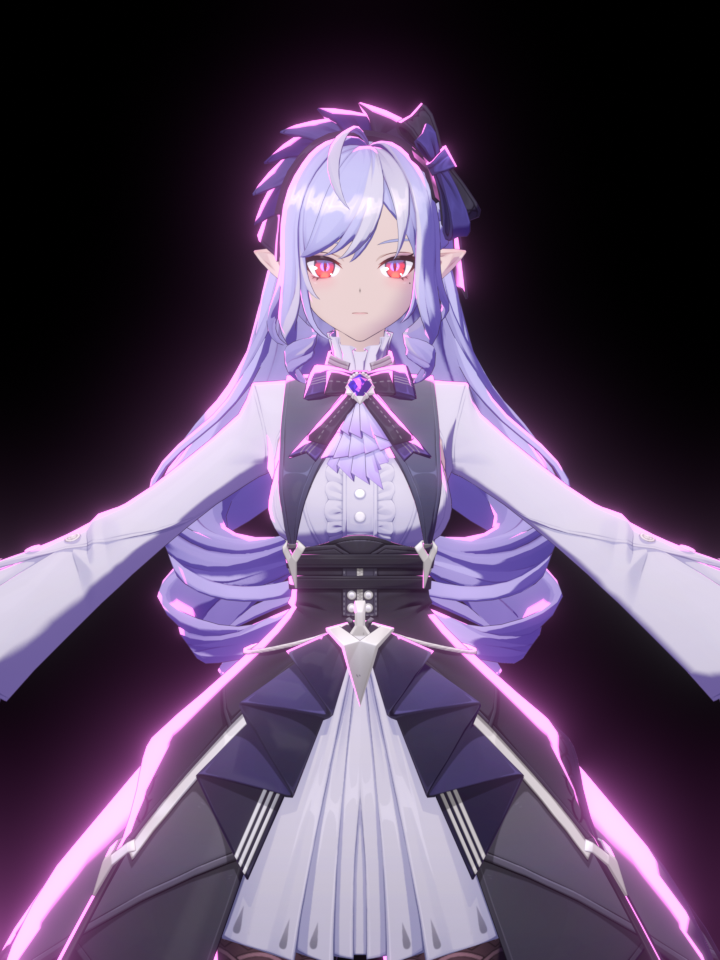
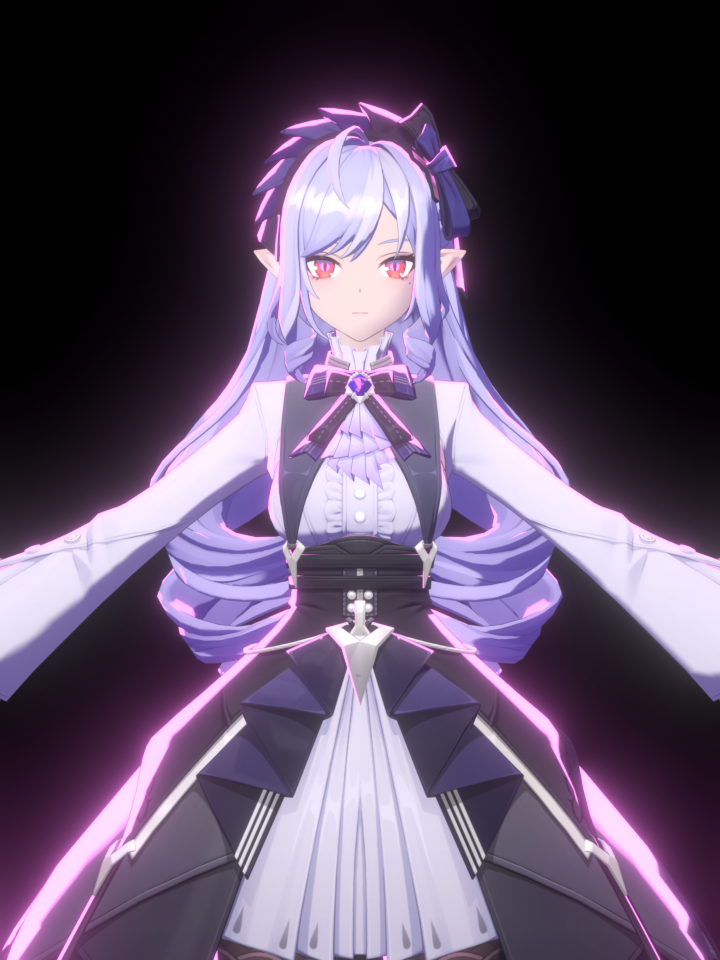
Fix bangs coverage and preserve parameters during style switching

diff --git a/addons/random_play_copy/style_panel.py b/addons/random_play_copy/style_panel.py
@@ -1,11 +1,11 @@
-# Frozen from RandomPlayToon 0.9.0; regenerate with sync_copy_style_panel.py.
-# Source SHA256: 7171205875d7fdcc009da91097d049b49fec1d80387cff099075d7de4c33ed5e
+# Frozen from RandomPlayToon 0.9.3; regenerate with sync_copy_style_panel.py.
+# Source SHA256: 73e04146fbb06fa2fba323f03eae0650017c7de20d7a720a13a0c9fb00de5215
 """Install as a Blender add-on, or run this text once to show the character panel.
 
 All sliders edit the actual node inputs. No duplicate parameter storage or frame
 handlers. Rendering and saved parameters work even when this UI is not installed.
 """
-bl_info={'name':'RandomPlayCopy · 参数面板','author':'Vivian rendering experiment','version':(0,8,4),'blender':(5,2,0),'location':'3D View / Shader Editor > N > Character','category':'Material'}
+bl_info={'name':'RandomPlayCopy · 参数面板','author':'Vivian rendering experiment','version':(0,8,7),'blender':(5,2,0),'location':'3D View / Shader Editor > N > Character','category':'Material'}
 import bpy, json, copy, math, textwrap
 from bpy.props import EnumProperty, StringProperty
 from bpy_extras.io_utils import ExportHelper, ImportHelper
@@ -104,23 +104,30 @@ def apply_values(scene,values):
         s.default_value=v
     refresh(scene)
 
+def display_values(scene,enabled=True):
+    """Lighting mode changes must preserve every authored style parameter."""
+    values=capture(scene);r=registry(scene)
+    values[r['global']['material']]['独立展示光照']=bool(enabled)
+    return values
+
 def generic_preset_values(scene,name):
+    if name in {'DISPLAY','BASELINE'}:return display_values(scene,name=='DISPLAY')
     # Keep the portable text self-contained: no installed package is required.
-    values=json.loads(scene['zzz_stage6_defaults']);r=registry(scene);glob=values[r['global']['material']]
+    values=json.loads(scene['zzz_stage6_defaults']) if name=='RESET' else capture(scene);r=registry(scene);glob=values[r['global']['material']]
     if name=='SOFT':glob.update({'身体过渡宽度':.17,'基础高光强度':.2,'边缘光强度':.025})
     if name=='CONTRAST':glob.update({'身体过渡宽度':.035,'基础高光强度':.48})
     if name=='NIGHT':
         glob.update({'角色受光亮度':.32,'辉光强度':.45})
         for e in r['materials']:
             if e['role'] in ['emissive','eyes']:values[e['material']]['自发光强度']=1.2
-    if name=='DISPLAY':glob['独立展示光照']=True
     return values
 
 def source_make_preset(scene,name):
-    values=json.loads(scene['zzz_stage6_defaults']);r=registry(scene)
+    if name in {'DISPLAY','BASELINE'}:return display_values(scene,name=='DISPLAY')
+    values=json.loads(scene['zzz_stage6_defaults']) if name=='RESET' else capture(scene);r=registry(scene)
     if r.get('generic'):
         return generic_preset_values(scene,name)
-    if name=='BASELINE':return values
+    if name=='RESET':return values
     def setkey(e,key,v):
         item=next((x for x in e['entries'] if x['key']==key),None)
         if item:values[e['material']][item['label']]=v
@@ -134,9 +141,8 @@ def source_make_preset(scene,name):
             if e['slot'] in [3,4]:setkey(e,'Glow Strength',1.5 if e['slot']==3 else .5)
             if e['slot'] in [10,12,13]:setkey(e,'Glow Strength',.7)
             if e['slot']==16:
-                setkey(e,'Glow Strength',1.4);setkey(e,'Back Glow Strength',1.0);setkey(e,'Glow Tint',[.08,.16,.9,1.])
+                setkey(e,'Glow Strength',1.4);setkey(e,'Back Glow Strength',1.0)
     glob=r['global']
-    if name=='SOFT' and not r.get('default_tuning'):setkey(glob,'Warmth',.12)
     if name=='SOFT':
         for k,v in [('Body Softness',.18),('Global Specular',.7),('Rim Strength',.028)]:setkey(glob,k,v)
     if name=='CONTRAST':
@@ -144,25 +150,6 @@ def source_make_preset(scene,name):
     if name=='CONTRAST':setkey(glob,'Outline Width',.0008)
     if name=='NIGHT':
         for k,v in [('Key Gain',.28),('Bloom Strength',.35),('Bloom Threshold',.45)]:setkey(glob,k,v)
-    if r.get('revision',0)>=2:
-        # Original four presets retain their previous scene/emission behavior.
-        # The user may independently override the lighting choice afterwards.
-        if name=='DISPLAY':
-            setkey(glob,'Studio Mode',True);setkey(glob,'Black Background',True)
-            setkey(glob,'Studio Emission',1.6)
-            if r.get('polish'):
-                for k,v in [('Body Softness',.045),('Bloom Strength',.16),('Bloom Threshold',1.05)]:setkey(glob,k,v)
-                for e in r['materials']:
-                    setkey(e,'Body Softness',.045);setkey(e,'Face Softness',.075)
-                    if e['slot']==16 and r.get('polish')==1:setkey(e,'Glow Tint',[.055,.48,.85,1.])
-            if r.get('live_preview'):
-                setkey(glob,'Bloom Strength',.55);setkey(glob,'Bloom Size',.3)
-            if r.get('lightweight'):
-                # Reset the entire gem parameter set to BASELINE, with its studio
-                # boost opt-in disabled. Other parts keep studio emission.
-                gem=next(e for e in r['materials'] if e['slot']==16)
-                values[gem['material']]=json.loads(scene['zzz_stage6_defaults'])[gem['material']]
-            if r.get('bloom_fix'):setkey(glob,'Bloom Threshold',.8)
     return values
 
 def make_preset(scene,name):
@@ -177,10 +164,26 @@ def make_preset(scene,name):
 
 class RPCSTYLE_OT_preset(bpy.types.Operator):
     bl_idname='rpcstyle.style_preset';bl_label='应用风格预设';bl_options={'REGISTER','UNDO'}
-    bl_description='替换本工具管理的风格数值；不更改灯光、模型或贴图。可撤销，建议先导出个人预设'
-    preset:EnumProperty(items=[('BASELINE','默认风格','恢复第六步入口默认值，包括场景光照方式'),('SOFT','柔和','柔和明暗与较弱高光'),('CONTRAST','清晰','更清晰的明暗与描边'),('NIGHT','暗场','角色受光变暗并启用局部发光，不改场景灯光'),('DISPLAY','独立虚拟光源控制','使用虚拟光向与黑底展示预设，隔离实际场景照明')])
+    bl_description='默认模式／独立光源仅切换光照；柔和、清晰、暗场只调整相关明暗参数；仅重置按钮恢复全部参数。可撤销'
+    preset:EnumProperty(items=[('BASELINE','默认模式','仅切换到场景光照，保留所有当前参数'),('RESET','重置全部风格参数','明确恢复初始风格数值，包括光照方式'),('SOFT','柔和','柔和明暗与较弱高光'),('CONTRAST','清晰','更清晰的明暗与描边'),('NIGHT','暗场','角色受光变暗并启用局部发光，不改场景灯光'),('DISPLAY','独立虚拟光源控制','仅切换到独立虚拟光照，保留所有颜色、效果参数和光向')])
     def execute(self,context):
-        try:apply_values(context.scene,make_preset(context.scene,self.preset))
+        try:
+            if self.preset in {'DISPLAY','BASELINE'}:lighting_set(context.scene,int(self.preset=='DISPLAY'))
+            elif self.preset=='RESET':apply_values(context.scene,make_preset(context.scene,self.preset))
+            else:
+                values=make_preset(context.scene,self.preset);changes=[]
+                for e in all_entries(context.scene):
+                    n=node(e)
+                    for socket in n.inputs:
+                        if socket.name in values[e['material']]:
+                            v=values[e['material']][socket.name]
+                            current=socket.default_value if isinstance(socket.default_value,(float,int,bool,str)) else list(socket.default_value)
+                            if current!=v:
+                                if socket.is_linked:raise ValueError('目标参数已有自定义连接：'+socket.name)
+                                if n.id_data.animation_data and n.id_data.animation_data.action:raise ValueError('目标材质参数已有动画，请在静态副本应用风格')
+                                changes.append((socket,v))
+                for socket,v in changes:socket.default_value=v
+                refresh(context.scene)
         except Exception as e:self.report({'ERROR'},str(e));return {'CANCELLED'}
         return {'FINISHED'}
 
@@ -347,7 +350,7 @@ class PanelBase:
         s=context.scene;r=registry(s);layout=self.layout
         if r.get('revision',0)>=2:
             layout.operator('rpcstyle.style_preset',text='独立虚拟光源控制').preset='DISPLAY'
-        layout.operator('rpcstyle.style_preset',text='默认风格').preset='BASELINE'
+        layout.operator('rpcstyle.style_preset',text='默认模式（场景光照）').preset='BASELINE'
         row=layout.row(align=True)
         for name,label in [('SOFT','柔和'),('CONTRAST','清晰'),('NIGHT','暗场')]:row.operator('rpcstyle.style_preset',text=label).preset=name
         if r.get('revision',0)>=2:layout.prop(s,'rpc_style_lighting_mode',text='光照方式')
@@ -358,6 +361,7 @@ class PanelBase:
             layout.label(text='调整方向后按 F12 查看完整效果',icon='INFO')
         elif r.get('polish',0)>=2:layout.label(text='F12结果不会随材质修改自动重渲染',icon='INFO')
         row=layout.row(align=True);row.operator('rpcstyle.export_style',text='导出预设');row.operator('rpcstyle.import_style',text='载入预设')
+        layout.operator('rpcstyle.style_preset',text='重置全部风格参数',icon='LOOP_BACK').preset='RESET'
         layout.separator();layout.prop(s,'rpc_style_style_slot',text='部位')
         layout.prop(s,'rpc_style_style_help',text='显示参数作用说明')
         if s.rpc_style_style_slot=='GLOBAL':

diff --git a/addons/random_play_toon/style_panel.py b/addons/random_play_toon/style_panel.py
@@ -3,7 +3,7 @@
 All sliders edit the actual node inputs. No duplicate parameter storage or frame
 handlers. Rendering and saved parameters work even when this UI is not installed.
 """
-bl_info={'name':'RandomPlayToon · 参数面板','author':'Vivian rendering experiment','version':(0,9,0),'blender':(5,2,0),'location':'3D View / Shader Editor > N > Character','category':'Material'}
+bl_info={'name':'RandomPlayToon · 参数面板','author':'Vivian rendering experiment','version':(0,9,3),'blender':(5,2,0),'location':'3D View / Shader Editor > N > Character','category':'Material'}
 import bpy, json, copy, math, textwrap
 from bpy.props import EnumProperty, StringProperty
 from bpy_extras.io_utils import ExportHelper, ImportHelper
@@ -102,23 +102,30 @@ def apply_values(scene,values):
         s.default_value=v
     refresh(scene)
 
+def display_values(scene,enabled=True):
+    """Lighting mode changes must preserve every authored style parameter."""
+    values=capture(scene);r=registry(scene)
+    values[r['global']['material']]['独立展示光照']=bool(enabled)
+    return values
+
 def generic_preset_values(scene,name):
+    if name in {'DISPLAY','BASELINE'}:return display_values(scene,name=='DISPLAY')
     # Keep the portable text self-contained: no installed package is required.
-    values=json.loads(scene['zzz_stage6_defaults']);r=registry(scene);glob=values[r['global']['material']]
+    values=json.loads(scene['zzz_stage6_defaults']) if name=='RESET' else capture(scene);r=registry(scene);glob=values[r['global']['material']]
     if name=='SOFT':glob.update({'身体过渡宽度':.17,'基础高光强度':.2,'边缘光强度':.025})
     if name=='CONTRAST':glob.update({'身体过渡宽度':.035,'基础高光强度':.48})
     if name=='NIGHT':
         glob.update({'角色受光亮度':.32,'辉光强度':.45})
         for e in r['materials']:
             if e['role'] in ['emissive','eyes']:values[e['material']]['自发光强度']=1.2
-    if name=='DISPLAY':glob['独立展示光照']=True
     return values
 
 def make_preset(scene,name):
-    values=json.loads(scene['zzz_stage6_defaults']);r=registry(scene)
+    if name in {'DISPLAY','BASELINE'}:return display_values(scene,name=='DISPLAY')
+    values=json.loads(scene['zzz_stage6_defaults']) if name=='RESET' else capture(scene);r=registry(scene)
     if r.get('generic'):
         return generic_preset_values(scene,name)
-    if name=='BASELINE':return values
+    if name=='RESET':return values
     def setkey(e,key,v):
         item=next((x for x in e['entries'] if x['key']==key),None)
         if item:values[e['material']][item['label']]=v
@@ -132,9 +139,8 @@ def make_preset(scene,name):
             if e['slot'] in [3,4]:setkey(e,'Glow Strength',1.5 if e['slot']==3 else .5)
             if e['slot'] in [10,12,13]:setkey(e,'Glow Strength',.7)
             if e['slot']==16:
-                setkey(e,'Glow Strength',1.4);setkey(e,'Back Glow Strength',1.0);setkey(e,'Glow Tint',[.08,.16,.9,1.])
+                setkey(e,'Glow Strength',1.4);setkey(e,'Back Glow Strength',1.0)
     glob=r['global']
-    if name=='SOFT' and not r.get('default_tuning'):setkey(glob,'Warmth',.12)
     if name=='SOFT':
         for k,v in [('Body Softness',.18),('Global Specular',.7),('Rim Strength',.028)]:setkey(glob,k,v)
     if name=='CONTRAST':
@@ -142,33 +148,30 @@ def make_preset(scene,name):
     if name=='CONTRAST':setkey(glob,'Outline Width',.0008)
     if name=='NIGHT':
         for k,v in [('Key Gain',.28),('Bloom Strength',.35),('Bloom Threshold',.45)]:setkey(glob,k,v)
-    if r.get('revision',0)>=2:
-        # Original four presets retain their previous scene/emission behavior.
-        # The user may independently override the lighting choice afterwards.
-        if name=='DISPLAY':
-            setkey(glob,'Studio Mode',True);setkey(glob,'Black Background',True)
-            setkey(glob,'Studio Emission',1.6)
-            if r.get('polish'):
-                for k,v in [('Body Softness',.045),('Bloom Strength',.16),('Bloom Threshold',1.05)]:setkey(glob,k,v)
-                for e in r['materials']:
-                    setkey(e,'Body Softness',.045);setkey(e,'Face Softness',.075)
-                    if e['slot']==16 and r.get('polish')==1:setkey(e,'Glow Tint',[.055,.48,.85,1.])
-            if r.get('live_preview'):
-                setkey(glob,'Bloom Strength',.55);setkey(glob,'Bloom Size',.3)
-            if r.get('lightweight'):
-                # Reset the entire gem parameter set to BASELINE, with its studio
-                # boost opt-in disabled. Other parts keep studio emission.
-                gem=next(e for e in r['materials'] if e['slot']==16)
-                values[gem['material']]=json.loads(scene['zzz_stage6_defaults'])[gem['material']]
-            if r.get('bloom_fix'):setkey(glob,'Bloom Threshold',.8)
     return values
 
 class RPT_OT_preset(bpy.types.Operator):
     bl_idname='rpt.style_preset';bl_label='应用风格预设';bl_options={'REGISTER','UNDO'}
-    bl_description='替换本工具管理的风格数值；不更改灯光、模型或贴图。可撤销，建议先导出个人预设'
-    preset:EnumProperty(items=[('BASELINE','默认风格','恢复第六步入口默认值，包括场景光照方式'),('SOFT','柔和','柔和明暗与较弱高光'),('CONTRAST','清晰','更清晰的明暗与描边'),('NIGHT','暗场','角色受光变暗并启用局部发光，不改场景灯光'),('DISPLAY','独立虚拟光源控制','使用虚拟光向与黑底展示预设，隔离实际场景照明')])
+    bl_description='默认模式／独立光源仅切换光照；柔和、清晰、暗场只调整相关明暗参数；仅重置按钮恢复全部参数。可撤销'
+    preset:EnumProperty(items=[('BASELINE','默认模式','仅切换到场景光照，保留所有当前参数'),('RESET','重置全部风格参数','明确恢复初始风格数值，包括光照方式'),('SOFT','柔和','柔和明暗与较弱高光'),('CONTRAST','清晰','更清晰的明暗与描边'),('NIGHT','暗场','角色受光变暗并启用局部发光，不改场景灯光'),('DISPLAY','独立虚拟光源控制','仅切换到独立虚拟光照，保留所有颜色、效果参数和光向')])
     def execute(self,context):
-        try:apply_values(context.scene,make_preset(context.scene,self.preset))
+        try:
+            if self.preset in {'DISPLAY','BASELINE'}:lighting_set(context.scene,int(self.preset=='DISPLAY'))
+            elif self.preset=='RESET':apply_values(context.scene,make_preset(context.scene,self.preset))
+            else:
+                values=make_preset(context.scene,self.preset);changes=[]
+                for e in all_entries(context.scene):
+                    n=node(e)
+                    for socket in n.inputs:
+                        if socket.name in values[e['material']]:
+                            v=values[e['material']][socket.name]
+                            current=socket.default_value if isinstance(socket.default_value,(float,int,bool,str)) else list(socket.default_value)
+                            if current!=v:
+                                if socket.is_linked:raise ValueError('目标参数已有自定义连接：'+socket.name)
+                                if n.id_data.animation_data and n.id_data.animation_data.action:raise ValueError('目标材质参数已有动画，请在静态副本应用风格')
+                                changes.append((socket,v))
+                for socket,v in changes:socket.default_value=v
+                refresh(context.scene)
         except Exception as e:self.report({'ERROR'},str(e));return {'CANCELLED'}
         return {'FINISHED'}
 
@@ -335,7 +338,7 @@ class PanelBase:
         s=context.scene;r=registry(s);layout=self.layout
         if r.get('revision',0)>=2:
             layout.operator('rpt.style_preset',text='独立虚拟光源控制').preset='DISPLAY'
-        layout.operator('rpt.style_preset',text='默认风格').preset='BASELINE'
+        layout.operator('rpt.style_preset',text='默认模式（场景光照）').preset='BASELINE'
         row=layout.row(align=True)
         for name,label in [('SOFT','柔和'),('CONTRAST','清晰'),('NIGHT','暗场')]:row.operator('rpt.style_preset',text=label).preset=name
         if r.get('revision',0)>=2:layout.prop(s,'rpt_lighting_mode',text='光照方式')
@@ -346,6 +349,7 @@ class PanelBase:
             layout.label(text='调整方向后按 F12 查看完整效果',icon='INFO')
         elif r.get('polish',0)>=2:layout.label(text='F12结果不会随材质修改自动重渲染',icon='INFO')
         row=layout.row(align=True);row.operator('rpt.export_style',text='导出预设');row.operator('rpt.import_style',text='载入预设')
+        layout.operator('rpt.style_preset',text='重置全部风格参数',icon='LOOP_BACK').preset='RESET'
         layout.separator();layout.prop(s,'rpt_style_slot',text='部位')
         layout.prop(s,'rpt_style_help',text='显示参数作用说明')
         if s.rpt_style_slot=='GLOBAL':

diff --git a/addons/random_play_toon/portable.py b/addons/random_play_toon/portable.py
@@ -9,8 +9,8 @@ def embed_panel():
     text=bpy.data.texts.get(PANEL_TEXT) or bpy.data.texts.new(PANEL_TEXT)
     text.clear();text.write(source);text.use_module=False
     readme=bpy.data.texts.get('00_RandomPlayToon_使用说明') or bpy.data.texts.new('00_RandomPlayToon_使用说明')
-    readme.clear();readme.write('RandomPlayToon 0.9.0 · 已重建场景\n\n模型、材质和参数均已保存，不需要重新导入或重建。\n\n推荐：安装并启用 RandomPlayToon 插件，然后直接打开本文件。\n3D 视图按 N：RandomPlayToon 为重建页，英文角色名为参数页。\n\n未安装插件：切换到文本编辑器，选择 01_启用风格面板，点击运行脚本（Alt+P）。\n返回 3D 视图，按 N，在英文角色页调节参数；按 F12 查看最终透眼和辉光。\n内置脚本只提供参数面板；一键重建需要完整插件。\n内置脚本需要在每次启动 Blender 后手动运行一次，不要求开启全局自动运行脚本。\n')
-    bpy.context.scene['rpt_panel_version']='0.9.0'
+    readme.clear();readme.write('RandomPlayToon 0.9.3 · 已重建场景\n\n模型、材质和参数均已保存，不需要重新导入或重建。\n\n推荐：安装并启用 RandomPlayToon 插件，然后直接打开本文件。\n3D 视图按 N：RandomPlayToon 为重建页，英文角色名为参数页。\n\n未安装插件：切换到文本编辑器，选择 01_启用风格面板，点击运行脚本（Alt+P）。\n返回 3D 视图，按 N，在英文角色页调节参数；按 F12 查看最终透眼和辉光。\n内置脚本只提供参数面板；一键重建需要完整插件。\n内置脚本需要在每次启动 Blender 后手动运行一次，不要求开启全局自动运行脚本。\n')
+    bpy.context.scene['rpt_panel_version']='0.9.3'
     for screen in bpy.data.screens:
         for area in screen.areas:
             if area.type in {'VIEW_3D','NODE_EDITOR'}:area.spaces.active.show_region_ui=True

diff --git a/addons/random_play_toon/specializations/vivian/core.py b/addons/random_play_toon/specializations/vivian/core.py
@@ -146,8 +146,8 @@ def build(pmx,texture_root,asset_root,output,preset='CURRENT',personal_preset=No
     ui.lightweight_viewports();ui.refresh(scene)
     scene['zzz_stage7_library']=False;scene['zzz_stage7_profile']=profile['profile']
     scene['zzz_stage7_inputs']=json.dumps({k:v for k,v in inputs.items() if k!='images'},ensure_ascii=False)
-    scene['zzz_stage7_version']='0.9.0';scene['zzz_stage7_baseline']='0.6.9'
-    report={'status':'success','profile':profile['profile'],'baseline_version':'0.6.9','plugin':'RandomPlayToon','plugin_version':'0.9.0',
+    scene['zzz_stage7_version']='0.9.3';scene['zzz_stage7_baseline']='0.6.9'
+    report={'status':'success','profile':profile['profile'],'baseline_version':'0.6.9','plugin':'RandomPlayToon','plugin_version':'0.9.3',
       'blender':bpy.app.version_string,'inputs':inputs,'preset':preset,'checks':{},'output':str(output)}
     checks=report['checks'];actual=mesh_snapshot(old)
     for key in ['positions','loops','parts','shapes','groups','weights']:checks['fresh_pmx_'+key]=actual[key]==expected[key]
@@ -155,7 +155,7 @@ def build(pmx,texture_root,asset_root,output,preset='CURRENT',personal_preset=No
     checks['shared_eye_mesh']=bpy.data.objects['ZZZ_EyeReveal_Body'].data==old.data
     checks['source_rig']=old.find_armature()==rig
     checks['eevee']=scene.render.engine=='BLENDER_EEVEE'
-    checks['panel_current']=ui.bl_info['version']==(0,9,0)
+    checks['panel_current']=ui.bl_info['version']==(0,9,3)
     checks['eye_layers']=all(n in scene.view_layers for n in ['ZZZ_Beauty','ZZZ_EyeVisibility'])
     progress('6/7 检查数据、打包资源')
     if not all(checks.values()):raise RuntimeError('构建后检查失败：'+str(checks))

diff --git a/addons/random_play_toon/core.py b/addons/random_play_toon/core.py
@@ -104,7 +104,7 @@ def build(pmx,texture_root,asset_root,output,preset='CURRENT',personal_preset=No
     if not all(preserved.values()):raise RuntimeError('源模型数据意外改变：'+str(preserved))
     for im in bpy.data.images:
         if im.source=='FILE' and Path(bpy.path.abspath(im.filepath)).is_file():im.pack()
-    report={'status':'success','output':str(dest),'plugin':'RandomPlayToon','version':'0.9.0','profile':profile['id'],'character':profile['character'],'kind':profile['kind'],'source_preserved':preserved,'materials':[{k:m.get(k) for k in ['index','name','role','matching','atlas','maps']} for m in profile['materials']],'effects':effects,'eye_reveal':eye_enabled,'warnings':inputs['warnings'],'validation':'rebuilt; visual acceptance recorded separately','elapsed_seconds':round(time.time()-start,2)}
+    report={'status':'success','output':str(dest),'plugin':'RandomPlayToon','version':'0.9.3','profile':profile['id'],'character':profile['character'],'kind':profile['kind'],'source_preserved':preserved,'materials':[{k:m.get(k) for k in ['index','name','role','matching','atlas','maps']} for m in profile['materials']],'effects':effects,'eye_reveal':eye_enabled,'warnings':inputs['warnings'],'validation':'rebuilt; visual acceptance recorded separately','elapsed_seconds':round(time.time()-start,2)}
     report['parameter_overrides']=profile.get('parameter_overrides',{});report['override_reason']=profile.get('override_reason','')
     report['detail_repairs']=json.loads(scene['rpt_detail_audit']);report['resolution']=[scene.render.resolution_x,scene.render.resolution_y]
     if character_refinement:report['character_refinement']=character_refinement

diff --git a/addons/random_play_toon/materials/feature_extension.py b/addons/random_play_toon/materials/feature_extension.py
@@ -287,7 +287,27 @@ def projected_outline(scene,r):
     return report
 
 
+def repair_bangs_pass(scene):
+    """Keep Vivian bang coverage in a dedicated colour AOV on Blender 5.2."""
+    t=scene.compositing_node_group
+    if not t or 'Hair AND visible eyes' not in t.nodes:return
+    mats=[m for m in bpy.data.materials if m.node_tree and 'ZZZ_EyeReveal ZZZ_BangsPotential' in m.node_tree.nodes]
+    if not mats:return
+    name='RPT Bangs Coverage'
+    for layer in scene.view_layers:
+        a=layer.aovs.get(name) or layer.aovs.add();a.name=name;a.type='COLOR'
+    for mat in mats:
+        q=Graph(mat.node_tree);old=mat.node_tree.nodes['ZZZ_EyeReveal ZZZ_BangsPotential']
+        n=mat.node_tree.nodes.get('RPT Stable bangs coverage') or q.node('ShaderNodeOutputAOV','RPT Stable bangs coverage')
+        n.aov_name=name;q.put(source(old.inputs['Value']),n.inputs['Color'])
+    for n in t.nodes:
+        if n.type=='R_LAYERS':n.layer=n.layer
+    bpy.context.view_layer.update()
+    t.links.new(t.nodes['Beauty - unchanged surfaces'].outputs[name],t.nodes['Hair AND visible eyes'].inputs[0])
+
+
 def apply(scene):
+    repair_bangs_pass(scene)
     if scene.get('rpt_feature_extension')==REVISION:return json.loads(scene['rpt_feature_audit'])
     r=ui.registry(scene)
     if not r.get('global'):raise ValueError('缺少已校准的角色参数注册表')

diff --git a/python_scripts/animation/build/sync_copy_style_panel.py b/python_scripts/animation/build/sync_copy_style_panel.py
@@ -1,4 +1,4 @@
-"""Freeze the approved 0.9.0 UI into the independently installable ABC add-on."""
+"""Freeze the approved 0.9.3 UI into the independently installable ABC add-on."""
 from pathlib import Path
 import hashlib
 
@@ -28,10 +28,10 @@ adapter = '''def make_preset(scene,name):
 
 '''
 s = s[:pos] + adapter + s[pos:]
-source_header="bl_info={'name':'RandomPlayToon · 参数面板','author':'Vivian rendering experiment','version':(0,9,0)"
-copy_header="bl_info={'name':'RandomPlayCopy · 参数面板','author':'Vivian rendering experiment','version':(0,8,4)"
+source_header="bl_info={'name':'RandomPlayToon · 参数面板','author':'Vivian rendering experiment','version':(0,9,3)"
+copy_header="bl_info={'name':'RandomPlayCopy · 参数面板','author':'Vivian rendering experiment','version':(0,8,7)"
 assert source_header in s
 s=s.replace(source_header,copy_header,1)
-header = '# Frozen from RandomPlayToon 0.9.0; regenerate with sync_copy_style_panel.py.\n# Source SHA256: ' + hashlib.sha256(source.read_bytes()).hexdigest() + '\n'
+header = '# Frozen from RandomPlayToon 0.9.3; regenerate with sync_copy_style_panel.py.\n# Source SHA256: ' + hashlib.sha256(source.read_bytes()).hexdigest() + '\n'
 (ROOT/'addons/random_play_copy/style_panel.py').write_text(header+s, encoding='utf8')
 print('Independent style panel synchronized')

diff --git a/addons/random_play_copy/__init__.py b/addons/random_play_copy/__init__.py
@@ -1,6 +1,6 @@
 """Independent Alembic render-look transfer. Independent namespaced 0.7.9-compatible style UI."""
 bl_info = {'name': 'RandomPlayCopy · ABC渲染套用', 'author': 'Rendering experiment',
-           'version': (0, 8, 4), 'blender': (5, 2, 0), 'category': 'Import-Export'}
+           'version': (0, 8, 7), 'blender': (5, 2, 0), 'category': 'Import-Export'}
 import json
 import subprocess
 import tempfile
@@ -155,7 +155,7 @@ class RPC_OT_open(bpy.types.Operator):
 
 
 class RPC_PT_main(bpy.types.Panel):
-    bl_label = 'ABC 渲染套用 · 0.8.4'
+    bl_label = 'ABC 渲染套用 · 0.8.7'
     bl_idname = 'RPC_PT_main'
     bl_space_type = 'VIEW_3D'
     bl_region_type = 'UI'

diff --git a/addons/random_play_toon/__init__.py b/addons/random_play_toon/__init__.py
@@ -1,5 +1,5 @@
 """Vivian reconstruction plugin; build work never changes the active scene."""
-bl_info={'name':'RandomPlayToon','author':'Vivian rendering experiment','version':(0,9,0),'blender':(5,2,0),'category':'Import-Export'}
+bl_info={'name':'RandomPlayToon','author':'Vivian rendering experiment','version':(0,9,3),'blender':(5,2,0),'category':'Import-Export'}
 import bpy,json,subprocess,time,uuid,hashlib
 from pathlib import Path
 from bpy.props import StringProperty,EnumProperty,BoolProperty,PointerProperty

diff --git a/python_scripts/animation/release/package_copy.py b/python_scripts/animation/release/package_copy.py
@@ -2,7 +2,7 @@
 import hashlib,json,zipfile
 from pathlib import Path
 ROOT=Path(__file__).resolve().parents[3]
-source=ROOT/'addons/random_play_copy';dest=ROOT/'dist/random_play_copy_0.8.4.zip'
+source=ROOT/'addons/random_play_copy';dest=ROOT/'dist/random_play_copy_0.8.7.zip'
 dest.parent.mkdir(parents=True, exist_ok=True)
 with zipfile.ZipFile(dest,'w',zipfile.ZIP_DEFLATED,compresslevel=9) as z:
  for p in sorted(source.rglob('*')):

diff --git a/addons/random_play_copy/core.py b/addons/random_play_copy/core.py
@@ -12,7 +12,7 @@ import bpy
 import numpy as np
 from mathutils import Matrix, Vector
 
-VERSION = '0.8.4'
+VERSION = '0.8.7'
 PROFILES = {
[2 lines of base64/hex data omitted]
